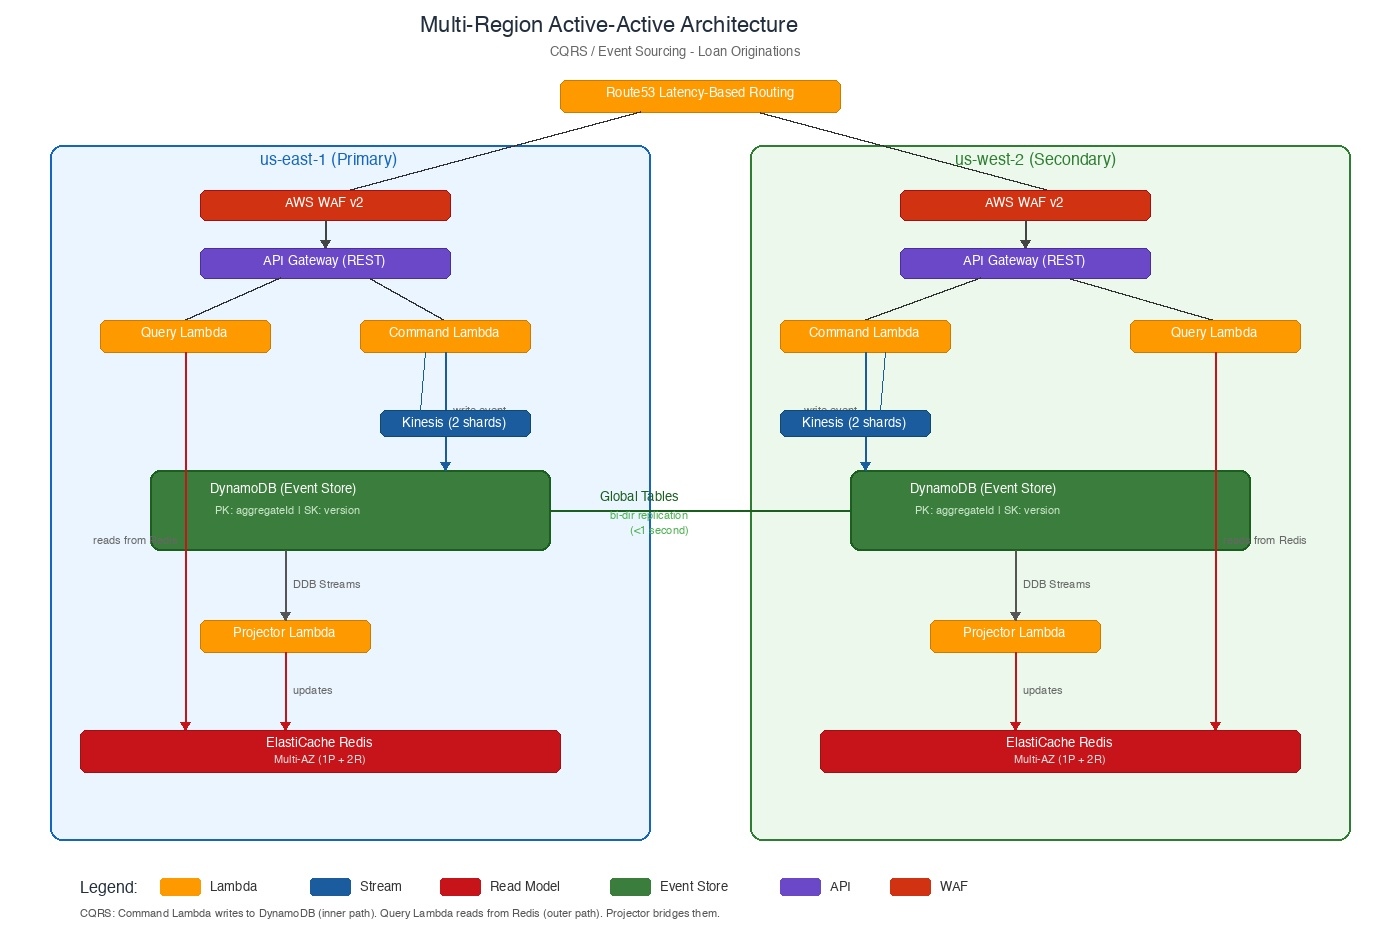
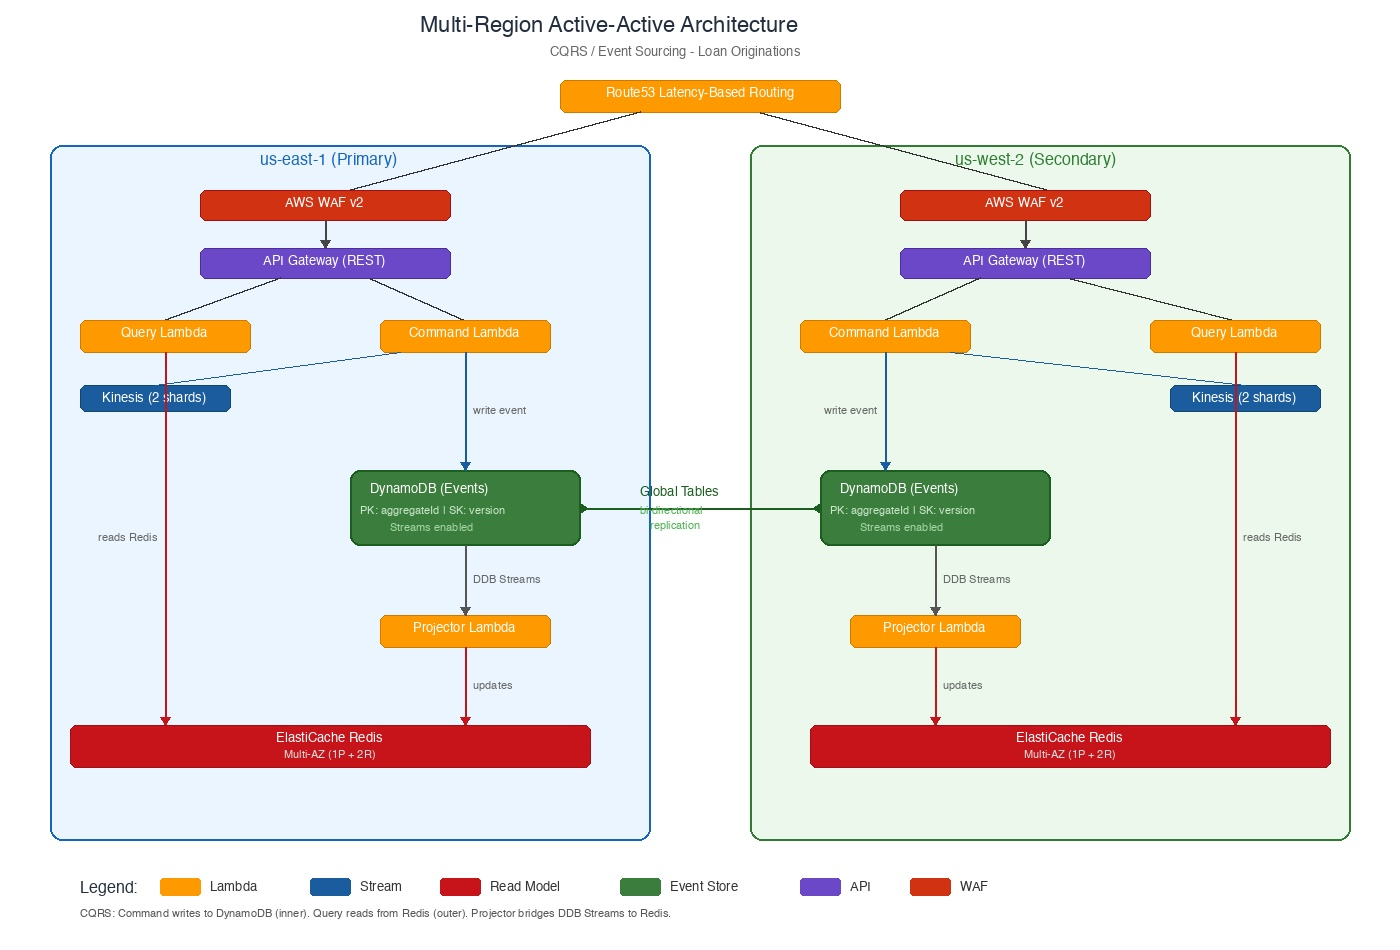
docs: narrow DDB boxes, move Kinesis to avoid overlapping arrows

diff --git a/docs/generate-diagram.py b/docs/generate-diagram.py
@@ -1,0 +1,190 @@
+from PIL import Image, ImageDraw, ImageFont
+
+W, H = 1400, 950
+img = Image.new('RGB', (W, H), '#FFFFFF')
+draw = ImageDraw.Draw(img)
+
+try:
+    font = ImageFont.truetype("/System/Library/Fonts/Helvetica.ttc", 16)
+    font_sm = ImageFont.truetype("/System/Library/Fonts/Helvetica.ttc", 13)
+    font_title = ImageFont.truetype("/System/Library/Fonts/Helvetica.ttc", 22)
+    font_label = ImageFont.truetype("/System/Library/Fonts/Helvetica.ttc", 11)
+except:
+    font = ImageFont.load_default()
+    font_sm = font
+    font_title = font
+    font_label = font
+
+BLUE = '#232F3E'
+ORANGE = '#FF9900'
+LIGHT_BLUE = '#EBF5FF'
+LIGHT_GREEN = '#EBF8EB'
+DARK_BLUE = '#1A5C9E'
+PURPLE = '#6B48C7'
+RED_CACHE = '#C7131A'
+GREEN_DDB = '#3B7D3C'
+
+def box(x, y, w, h, fill, outline, text, subtitle=None):
+    draw.rounded_rectangle([x, y, x+w, y+h], radius=6, fill=fill, outline=outline, width=1)
+    tw = draw.textlength(text, font=font_sm)
+    draw.text((x + (w - tw)//2, y + 6), text, fill='white', font=font_sm)
+    if subtitle:
+        sw = draw.textlength(subtitle, font=font_label)
+        draw.text((x + (w - sw)//2, y + 24), subtitle, fill='#DDDDDD', font=font_label)
+
+def arrow_down(x, y1, y2, color='#444', width=2, label=None, label_side='right'):
+    draw.line([(x, y1), (x, y2)], fill=color, width=width)
+    draw.polygon([(x-5, y2-8), (x+5, y2-8), (x, y2)], fill=color)
+    if label:
+        lx = x + 8 if label_side == 'right' else x - draw.textlength(label, font=font_label) - 8
+        draw.text((lx, (y1+y2)//2 - 6), label, fill='#666', font=font_label)
+
+def arrow_line(x1, y1, x2, y2, color='#444', width=2):
+    draw.line([(x1, y1), (x2, y2)], fill=color, width=width)
+
+# Layout
+DDB_TOP = 470
+DDB_BOT = 545
+PROJ_TOP = 615
+PROJ_BOT = 647
+REDIS_TOP = 725
+REDIS_BOT = 767
+
+# Title
+draw.text((W//2 - 280, 15), "Multi-Region Active-Active Architecture", fill=BLUE, font=font_title)
+draw.text((W//2 - 150, 45), "CQRS / Event Sourcing - Loan Originations", fill='#666', font=font_sm)
+
+# Route53
+box(560, 80, 280, 32, ORANGE, '#CC7A00', 'Route53 Latency-Based Routing')
+
+# Region boxes
+draw.rounded_rectangle([50, 145, 650, 840], radius=12, fill=LIGHT_BLUE, outline='#1565C0', width=2)
+draw.text((260, 152), "us-east-1 (Primary)", fill='#1565C0', font=font)
+draw.rounded_rectangle([750, 145, 1350, 840], radius=12, fill=LIGHT_GREEN, outline='#2E7D32', width=2)
+draw.text((955, 152), "us-west-2 (Secondary)", fill='#2E7D32', font=font)
+
+# Route53 arrows
+arrow_line(640, 112, 350, 190, '#333')
+arrow_line(760, 112, 1050, 190, '#333')
+
+# ===== DynamoDB boxes (NARROW - only under Command Lambda) =====
+# us-east-1 DDB: right side only (under Command Lambda at x=380-550)
+DDB1_X = 350
+DDB1_W = 230
+draw.rounded_rectangle([DDB1_X, DDB_TOP, DDB1_X+DDB1_W, DDB_BOT], radius=10, fill=GREEN_DDB, outline='#1B5E20', width=2)
+draw.text((DDB1_X+20, DDB_TOP+12), "DynamoDB (Events)", fill='white', font=font_sm)
+draw.text((DDB1_X+10, DDB_TOP+35), "PK: aggregateId | SK: version", fill='#C8E6C9', font=font_label)
+draw.text((DDB1_X+40, DDB_TOP+52), "Streams enabled", fill='#A5D6A7', font=font_label)
+
+# us-west-2 DDB: left side only (under Command Lambda at x=800-970)
+DDB2_X = 820
+DDB2_W = 230
+draw.rounded_rectangle([DDB2_X, DDB_TOP, DDB2_X+DDB2_W, DDB_BOT], radius=10, fill=GREEN_DDB, outline='#1B5E20', width=2)
+draw.text((DDB2_X+20, DDB_TOP+12), "DynamoDB (Events)", fill='white', font=font_sm)
+draw.text((DDB2_X+10, DDB_TOP+35), "PK: aggregateId | SK: version", fill='#C8E6C9', font=font_label)
+draw.text((DDB2_X+40, DDB_TOP+52), "Streams enabled", fill='#A5D6A7', font=font_label)
+
+# Global Tables connector
+draw.line([(DDB1_X+DDB1_W, DDB_TOP+38), (DDB2_X, DDB_TOP+38)], fill='#1B5E20', width=2)
+draw.text((640, DDB_TOP+15), "Global Tables", fill='#1B5E20', font=font_sm)
+draw.text((640, DDB_TOP+35), "bi-directional", fill='#4CAF50', font=font_label)
+draw.text((650, DDB_TOP+50), "replication", fill='#4CAF50', font=font_label)
+draw.polygon([(DDB1_X+DDB1_W, DDB_TOP+33), (DDB1_X+DDB1_W, DDB_TOP+43), (DDB1_X+DDB1_W+8, DDB_TOP+38)], fill='#1B5E20')
+draw.polygon([(DDB2_X, DDB_TOP+33), (DDB2_X, DDB_TOP+43), (DDB2_X-8, DDB_TOP+38)], fill='#1B5E20')
+
+# ======== us-east-1 ========
+box(200, 190, 250, 30, '#D13212', '#A01015', 'AWS WAF v2')
+arrow_down(325, 220, 248)
+box(200, 248, 250, 30, PURPLE, '#4B2D9E', 'API Gateway (REST)')
+
+# Query Lambda LEFT (outer), Command Lambda RIGHT (inner)
+QRY1_X, QRY1_Y, QRY1_W, QRY1_H = 80, 320, 170, 32
+CMD1_X, CMD1_Y, CMD1_W, CMD1_H = 380, 320, 170, 32
+
+arrow_line(280, 278, QRY1_X + QRY1_W//2, QRY1_Y, '#333')
+arrow_line(370, 278, CMD1_X + CMD1_W//2, CMD1_Y, '#333')
+
+box(QRY1_X, QRY1_Y, QRY1_W, QRY1_H, ORANGE, '#CC7A00', 'Query Lambda')
+box(CMD1_X, CMD1_Y, CMD1_W, CMD1_H, ORANGE, '#CC7A00', 'Command Lambda')
+
+# Command -> DynamoDB
+CMD1_CX = CMD1_X + CMD1_W // 2
+arrow_down(CMD1_CX, CMD1_Y + CMD1_H, DDB_TOP, DARK_BLUE, label="write event")
+
+# Kinesis — BELOW the Command Lambda, offset left so it doesn't overlap the arrow
+box(80, 385, 150, 26, DARK_BLUE, '#13476B', 'Kinesis (2 shards)')
+arrow_line(CMD1_X + 20, CMD1_Y + CMD1_H, 155, 385, DARK_BLUE, 1)
+
+# Query -> Redis (outer column, clear of DDB)
+QRY1_CX = QRY1_X + QRY1_W // 2
+arrow_down(QRY1_CX, QRY1_Y + QRY1_H, REDIS_TOP, RED_CACHE, label="reads Redis", label_side='left')
+
+# DDB -> Projector
+PROJ1_CX = DDB1_X + DDB1_W // 2
+box(PROJ1_CX - 85, PROJ_TOP, 170, PROJ_BOT - PROJ_TOP, ORANGE, '#CC7A00', 'Projector Lambda')
+arrow_down(PROJ1_CX, DDB_BOT, PROJ_TOP, '#555', label="DDB Streams")
+
+# Projector -> Redis
+arrow_down(PROJ1_CX, PROJ_BOT, REDIS_TOP, RED_CACHE, label="updates")
+
+# Redis
+box(70, REDIS_TOP, 520, REDIS_BOT - REDIS_TOP, RED_CACHE, '#A01015', 'ElastiCache Redis', subtitle='Multi-AZ (1P + 2R)')
+
+# ======== us-west-2 ========
+box(900, 190, 250, 30, '#D13212', '#A01015', 'AWS WAF v2')
+arrow_down(1025, 220, 248)
+box(900, 248, 250, 30, PURPLE, '#4B2D9E', 'API Gateway (REST)')
+
+# Command Lambda LEFT (inner), Query Lambda RIGHT (outer)
+CMD2_X, CMD2_Y, CMD2_W, CMD2_H = 800, 320, 170, 32
+QRY2_X, QRY2_Y, QRY2_W, QRY2_H = 1150, 320, 170, 32
+
+arrow_line(980, 278, CMD2_X + CMD2_W//2, CMD2_Y, '#333')
+arrow_line(1070, 278, QRY2_X + QRY2_W//2, QRY2_Y, '#333')
+
+box(CMD2_X, CMD2_Y, CMD2_W, CMD2_H, ORANGE, '#CC7A00', 'Command Lambda')
+box(QRY2_X, QRY2_Y, QRY2_W, QRY2_H, ORANGE, '#CC7A00', 'Query Lambda')
+
+# Command -> DynamoDB
+CMD2_CX = CMD2_X + CMD2_W // 2
+arrow_down(CMD2_CX, CMD2_Y + CMD2_H, DDB_TOP, DARK_BLUE, label="write event", label_side='left')
+
+# Kinesis — offset right
+box(1170, 385, 150, 26, DARK_BLUE, '#13476B', 'Kinesis (2 shards)')
+arrow_line(CMD2_X + CMD2_W - 20, CMD2_Y + CMD2_H, 1245, 385, DARK_BLUE, 1)
+
+# Query -> Redis (outer)
+QRY2_CX = QRY2_X + QRY2_W // 2
+arrow_down(QRY2_CX, QRY2_Y + QRY2_H, REDIS_TOP, RED_CACHE, label="reads Redis")
+
+# DDB -> Projector
+PROJ2_CX = DDB2_X + DDB2_W // 2
+box(PROJ2_CX - 85, PROJ_TOP, 170, PROJ_BOT - PROJ_TOP, ORANGE, '#CC7A00', 'Projector Lambda')
+arrow_down(PROJ2_CX, DDB_BOT, PROJ_TOP, '#555', label="DDB Streams")
+
+# Projector -> Redis
+arrow_down(PROJ2_CX, PROJ_BOT, REDIS_TOP, RED_CACHE, label="updates")
+
+# Redis
+box(810, REDIS_TOP, 520, REDIS_BOT - REDIS_TOP, RED_CACHE, '#A01015', 'ElastiCache Redis', subtitle='Multi-AZ (1P + 2R)')
+
+# Legend
+LY = 880
+draw.text((80, LY), "Legend:", fill=BLUE, font=font)
+draw.rounded_rectangle([160, LY-2, 200, LY+15], radius=3, fill=ORANGE)
+draw.text((210, LY), "Lambda", fill='#333', font=font_sm)
+draw.rounded_rectangle([310, LY-2, 350, LY+15], radius=3, fill=DARK_BLUE)
+draw.text((360, LY), "Stream", fill='#333', font=font_sm)
+draw.rounded_rectangle([440, LY-2, 480, LY+15], radius=3, fill=RED_CACHE)
+draw.text((490, LY), "Read Model", fill='#333', font=font_sm)
+draw.rounded_rectangle([620, LY-2, 660, LY+15], radius=3, fill=GREEN_DDB)
+draw.text((670, LY), "Event Store", fill='#333', font=font_sm)
+draw.rounded_rectangle([800, LY-2, 840, LY+15], radius=3, fill=PURPLE)
+draw.text((850, LY), "API", fill='#333', font=font_sm)
+draw.rounded_rectangle([910, LY-2, 950, LY+15], radius=3, fill='#D13212')
+draw.text((960, LY), "WAF", fill='#333', font=font_sm)
+
+draw.text((80, LY+28), "CQRS: Command writes to DynamoDB (inner). Query reads from Redis (outer). Projector bridges DDB Streams to Redis.", fill='#555', font=font_label)
+
+img.save('/Users/epatro/github/axon-poc/docs/architecture-diagram.jpg', 'JPEG', quality=95)
+print("Done")
